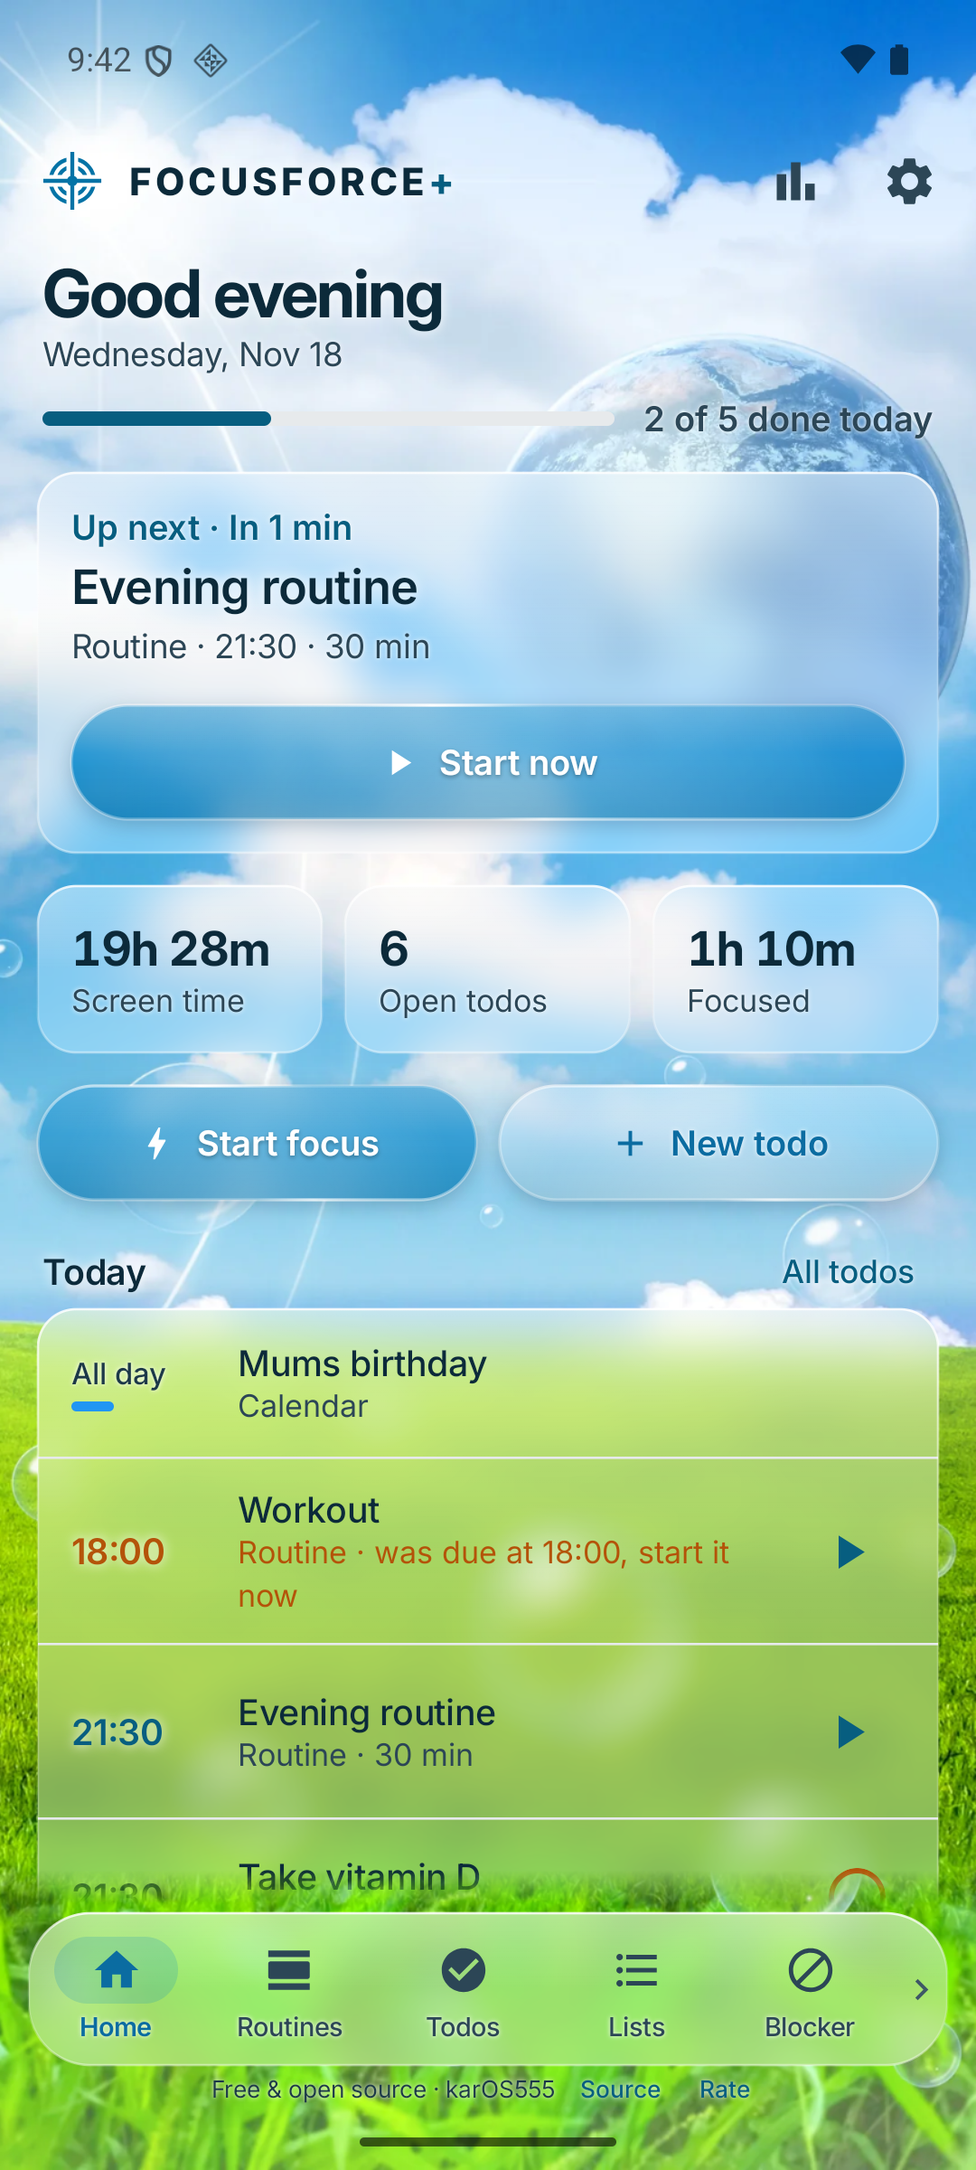
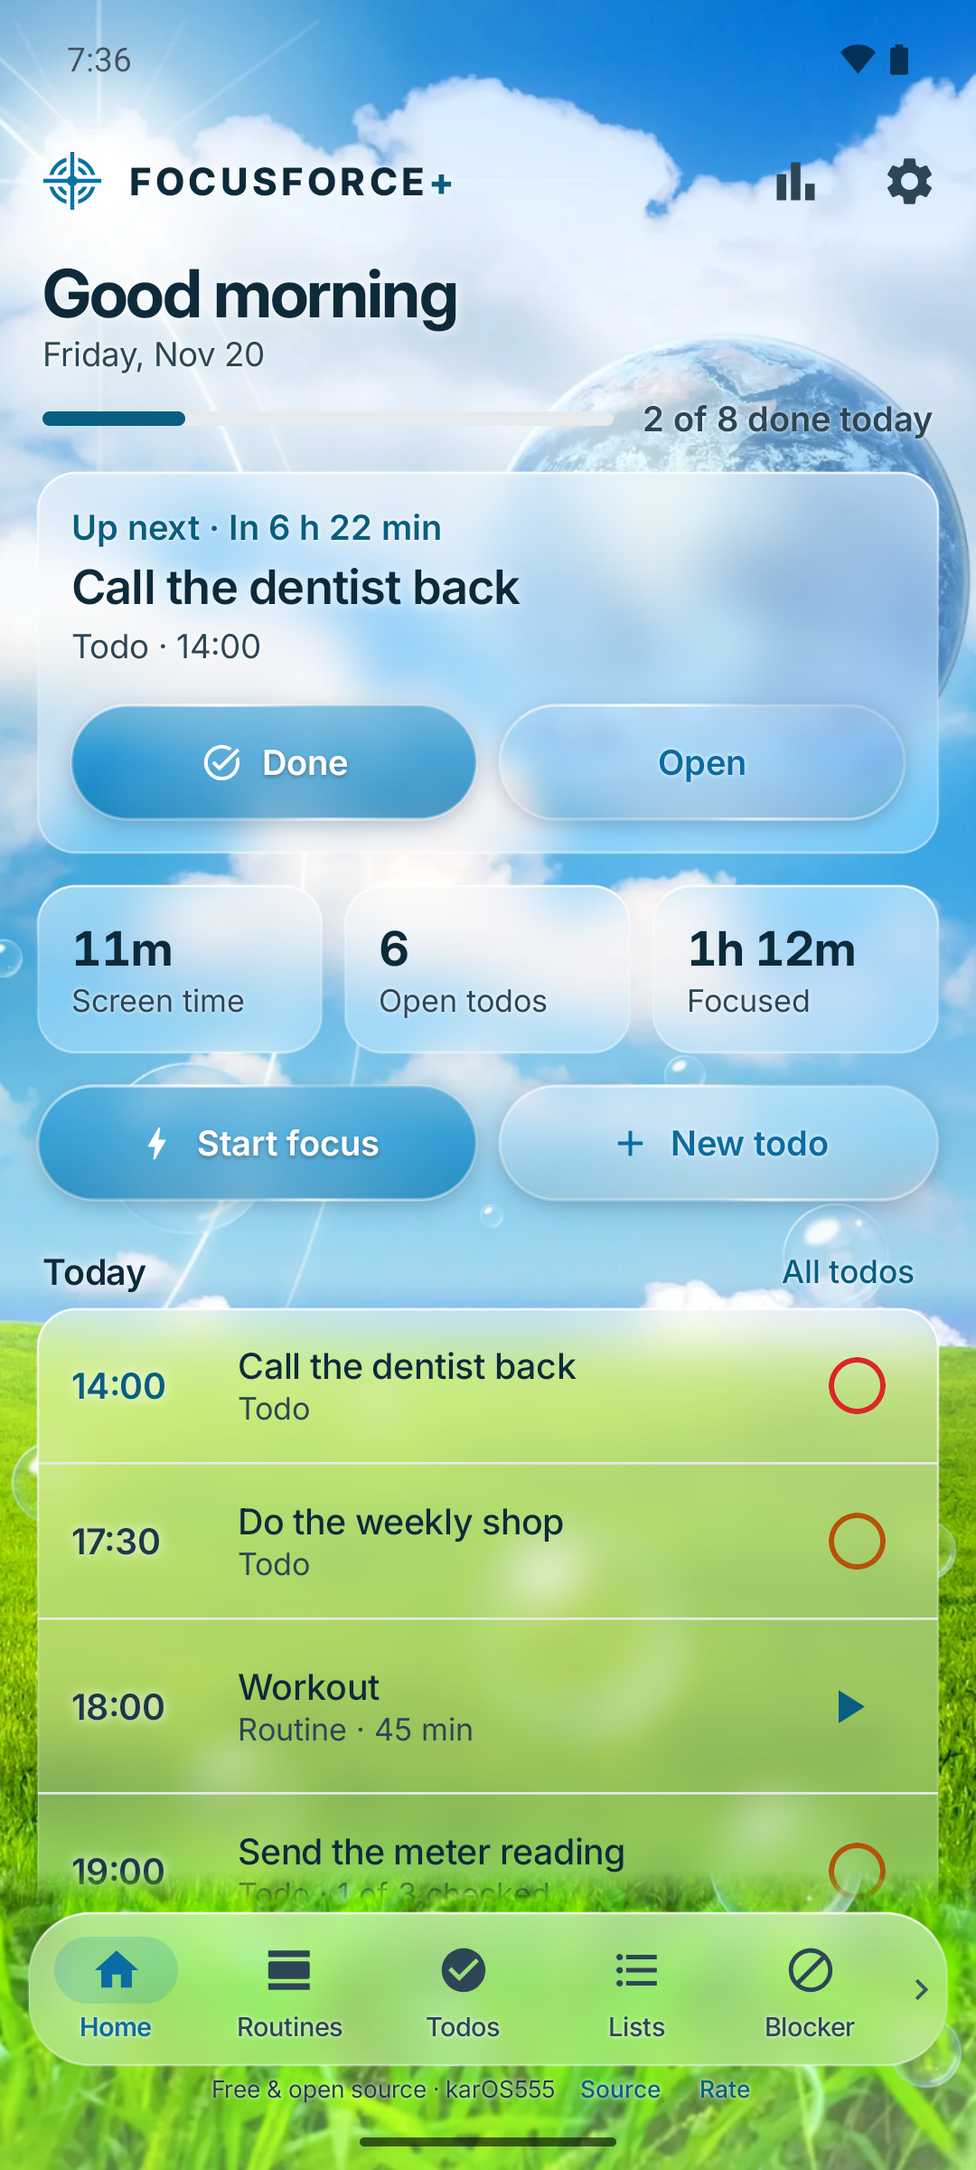
docs(readme): short sentences, the ADHD line up front, a picture for every part
The README said the right things in long paragraphs that nobody reads. It
now opens with what the app is ("The all-in-one app for ADHD brains" and
four lines under "In short"), puts how it holds you to your plan above the
feature list, and uses lists and small tables instead of blocks of text.

Ten new pictures in the store design show what had none: the sum before a
snooze, an app blocked during focus, invincible mode, the speed bump
settings, Tamper Protection, a routine's alarm, the view for the shop, a
checklist, statistics and widgets. They live in docs/readme/shots, so the
store listing keeps its nine.

The Aero screenshot is retaken: its screen time read 19 hours, because the
test device had been on for days.

diff --git a/README.md b/README.md
@@ -9,7 +9,9 @@
 
 # FocusForce+
 
-### Routines, todos, lists, an app blocker, focus and sleep mode in one Android app, with reminders you can't just swipe away.
+### The all-in-one app for ADHD brains
+
+Routines, todos, lists, an app blocker, focus and sleep mode in one Android app.<br/>With reminders you can't just swipe away.
 
 <br/>
 
@@ -40,39 +42,138 @@
 > [!NOTE]
 > FocusForce+ is in public beta. If something breaks or feels wrong on your phone, please [open an issue](../../issues).
 
+<h2 id="in-short"><sub><img src="docs/readme/icons/lightbulb.svg" height="24" width="24" alt=""></sub> In short</h2>
+
+- **One app instead of six.** Routines, todos, lists, blocker, focus and sleep work together. A routine can block your apps. A todo can carry your shopping list.
+- **It holds you to your plan.** Reminders come back. Snoozing, skipping and quitting early take a small task first, like solving a sum.
+- **It stays on your phone.** No account, no cloud, no ads. The app has no internet permission.
+- **Free and open source.** Built by one person who uses it every day.
+
 <h2 id="why-i-built-it"><sub><img src="docs/readme/icons/user-round.svg" height="24" width="24" alt=""></sub> Why I built it</h2>
 
-**I built FocusForce+ for myself.** Every routine app, todo app and blocker I tried stopped working for me the moment motivation dipped, because everything in them could be swiped away, snoozed forever or switched off in two taps. So I wrote the app I needed: reminders that come back, routines that start with a real alarm, blocks that hold, and a little friction in front of every way out. I use it every day.
+**I built FocusForce+ for myself.** Every routine app, todo app and blocker I tried stopped working the moment my motivation dipped. I could swipe everything away, snooze forever, or switch it off in two taps.
 
-It is made for brains that need more structure than most apps assume: ADHD, habits that run away with you, or too many hours lost to the phone. If yours works anything like mine, it might fit you too.
+So I wrote the app I needed. I use it every day.
 
-<h2 id="what-it-does"><sub><img src="docs/readme/icons/smartphone.svg" height="24" width="24" alt=""></sub> What it does</h2>
+It is made for brains that need more structure than most apps assume: ADHD, habits that run away with you, or too many hours lost to the phone. If yours works like mine, it might fit you too.
 
-### Your day, in one place
+<h2 id="how-it-holds-you-to-it"><sub><img src="docs/readme/icons/lock-keyhole.svg" height="24" width="24" alt=""></sub> How it holds you to it</h2>
 
-**Home** answers "what now?": how much of today is done, what is up next with a Start or Done button right there, and then routines, todos and calendar events in one list by time. **Todos** get pushier with their priority. Low is one notification, medium comes up on screen and comes back a couple of times, high rings and rings again. Ticking one off takes a confirmation and a swipe along a path. Todos without a date come back at set times each day.
+Most apps let you swipe, snooze or switch off. FocusForce+ puts a small hurdle in front of every way out.
+
+<p align="center">
+<a href="docs/readme/shots/sum.png"><img src="docs/readme/shots/sum.png" width="30%" alt="A ringing routine alarm asks for a sum before it can be snoozed"></a>
+&nbsp;
+<a href="docs/readme/shots/blocked.png"><img src="docs/readme/shots/blocked.png" width="30%" alt="YouTube is blocked because a focus session is running"></a>
+&nbsp;
+<a href="docs/readme/shots/invincible.png"><img src="docs/readme/shots/invincible.png" width="30%" alt="A focus session in invincible mode that runs to the end"></a>
+</p>
+
+| | What it does |
+|---|---|
+| **Speed bumps** | Before you snooze, skip, quit early or pause a block, the app can ask again, make you wait, or give you a small task: hold a button, drag a slider, trace a path or solve a sum. |
+| **Blocking that follows your day** | Start a routine or a focus session and your apps close with it. Sleep time and calendar events do the same. |
+| **Invincible mode** | Lock one routine, one focus session or one block. It then runs to the end. The rest of your phone stays free. |
+| **Reminders that come back** | Swipe an important todo away and it returns. A high-priority todo rings again every few minutes. |
+| **Tamper Protection** | Switch it on, and you can only loosen your locks in a short daily window. You pick the time. |
+
+<p align="center">
+<a href="fastlane/metadata/android/en-US/images/phoneScreenshots/2.png"><img src="fastlane/metadata/android/en-US/images/phoneScreenshots/2.png" width="30%" alt="A high-priority todo alarm that is only done after a swipe along a path"></a>
+&nbsp;
+<a href="docs/readme/shots/speedbumps.png"><img src="docs/readme/shots/speedbumps.png" width="30%" alt="The speed bump settings, with a mix for each action"></a>
+&nbsp;
+<a href="docs/readme/shots/tamper.png"><img src="docs/readme/shots/tamper.png" width="30%" alt="Tamper Protection switched on, with its daily window"></a>
+</p>
+
+**You decide how strict it is.** Every speed bump can be changed, for each action and even for a single todo or routine. One switch turns them all off.
+
+> [!TIP]
+> **Friction, not a trap.** A speed bump takes a minute at most. No alarm rings forever. You can always uninstall the app in Android's settings. The point is to stop the reflex, not to lock you out of your phone.
+
+<h2 id="what-is-inside"><sub><img src="docs/readme/icons/smartphone.svg" height="24" width="24" alt=""></sub> What is inside</h2>
+
+<h3 id="home-and-todos"><sub><img src="docs/readme/icons/house.svg" height="20" width="20" alt=""></sub> Home and todos</h3>
+
+**Home** answers one question: what now?
+
+- How much of today is done, and what is up next, with **Start** or **Done** right there.
+- Routines, todos and calendar events in **one list**, sorted by time.
+
+**Todos** get louder with their priority.
+
+| Priority | What happens |
+|---|---|
+| Low | One quiet notification. |
+| Medium | Comes up on screen and comes back a couple of times. |
+| High | Rings like an alarm, and rings again every few minutes. Ticking it off takes a confirmation and a swipe along a path. |
+
+- **Todos without a date** come back at set times each day, so they don't sink to the bottom of a list.
+- Checklists inside a todo, repeating todos, and a trash for mistakes.
 
 <p align="center">
 <a href="fastlane/metadata/android/en-US/images/phoneScreenshots/1.png"><img src="fastlane/metadata/android/en-US/images/phoneScreenshots/1.png" width="30%" alt="Home with today's progress, what is up next, and routines, todos and calendar events in one list"></a>
 &nbsp;
-<a href="fastlane/metadata/android/en-US/images/phoneScreenshots/2.png"><img src="fastlane/metadata/android/en-US/images/phoneScreenshots/2.png" width="30%" alt="A high-priority todo alarm with the path slider"></a>
-&nbsp;
 <a href="fastlane/metadata/android/en-US/images/phoneScreenshots/3.png"><img src="fastlane/metadata/android/en-US/images/phoneScreenshots/3.png" width="30%" alt="The todo list grouped by today, later and no date"></a>
 </p>
 
-### Routines and lists
+<h3 id="routines"><sub><img src="docs/readme/icons/alarm-clock.svg" height="20" width="20" alt=""></sub> Routines</h3>
 
-**Routines** start with a real alarm and give every step its own timer. Run over and the timer keeps counting and reminds you. Each routine has its own number of snoozes, its own heads-up before the start, and can block apps and switch on Do Not Disturb while it runs. **Lists** come in two kinds. A shopping list takes several things at once ("milk, 2 bread, flour 500 g"), sorts them by aisle on its own, keeps what you bought before one tap away, and turns into a big tick-off view in the shop that keeps the screen on. A checklist is for the same things every time, like packing: ticked items stay, and it starts over for the next trip. A todo can carry a list, and so can a routine step, like a packing list for "Pack the bag".
+A routine is a list of steps. Each step has its own timer.
+
+- **Starts with a real alarm,** full screen, like an alarm clock.
+- **One step at a time.** Run over, and the timer keeps counting and reminds you.
+- **Snoozing costs a sum.** You set how many snoozes each routine gets.
+- Can **block apps** and switch on **Do Not Disturb** while it runs.
+- A step can carry a list, like a packing list for "Pack the bag".
+- Duplicate a routine, or copy steps from another one.
 
 <p align="center">
-<a href="fastlane/metadata/android/en-US/images/phoneScreenshots/4.png"><img src="fastlane/metadata/android/en-US/images/phoneScreenshots/4.png" width="30%" alt="A routine step counting down"></a>
+<a href="docs/readme/shots/routine-alarm.png"><img src="docs/readme/shots/routine-alarm.png" width="30%" alt="A routine's alarm with Start, Snooze and Move"></a>
 &nbsp;
-<a href="fastlane/metadata/android/en-US/images/phoneScreenshots/8.png"><img src="fastlane/metadata/android/en-US/images/phoneScreenshots/8.png" width="30%" alt="A shopping list sorted by aisle, with amounts, things to buy again and its reminder"></a>
+<a href="fastlane/metadata/android/en-US/images/phoneScreenshots/4.png"><img src="fastlane/metadata/android/en-US/images/phoneScreenshots/4.png" width="30%" alt="A routine step counting down"></a>
 </p>
 
-### Blocking, focus and sleep
+<h3 id="lists"><sub><img src="docs/readme/icons/list-checks.svg" height="20" width="20" alt=""></sub> Lists</h3>
 
-**The blocker** closes apps always, after a daily limit, on a schedule, or while a routine, a focus session or a calendar event is on. Several apps can share one limit, and you can keep Instagram and YouTube but skip Reels and Shorts. **Focus** silences the phone and blocks apps for a set time; ending early asks first and then makes you wait. **Sleep** reminds you to wind down, keeps the night quiet, closes apps until morning, and can start a routine at bedtime and at wake-up.
+Two kinds, because shopping and packing work differently.
+
+**Shopping list**
+
+- Type several things at once: `milk, 2 bread, flour 500 g`.
+- **Sorts itself by aisle.** It knows common groceries in English and German.
+- **Buy again:** what you bought before is one tap away.
+- **A view for the shop:** only what is left, in big rows, with the screen kept on.
+
+**Checklist**
+
+- For the same things every time, like packing or leaving the house.
+- Ticked items stay, and the top shows how far you are.
+- **Start over** resets it for the next trip.
+
+Both can remind you with a todo, be shared as text, and undo what you removed.
+
+<p align="center">
+<a href="fastlane/metadata/android/en-US/images/phoneScreenshots/8.png"><img src="fastlane/metadata/android/en-US/images/phoneScreenshots/8.png" width="30%" alt="A shopping list sorted by aisle, with amounts, things to buy again and its reminder"></a>
+&nbsp;
+<a href="docs/readme/shots/shopping.png"><img src="docs/readme/shots/shopping.png" width="30%" alt="The view for the shop: what is left, aisle by aisle, in big rows"></a>
+&nbsp;
+<a href="docs/readme/shots/checklist.png"><img src="docs/readme/shots/checklist.png" width="30%" alt="A packing checklist with its progress and Start over"></a>
+</p>
+
+<h3 id="blocker-focus-and-sleep"><sub><img src="docs/readme/icons/ban.svg" height="20" width="20" alt=""></sub> Blocker, focus and sleep</h3>
+
+**The blocker** closes the apps you pick:
+
+- **always**, after a **daily limit**, or on a **schedule**, overnight too
+- while a **routine**, a **focus session** or a **calendar event** is on
+- with **one shared limit** for several apps, like 60 minutes for all social media
+- or only **Reels and Shorts**, while the rest of Instagram and YouTube keeps working
+
+Need an app anyway? "5 more minutes" is there a couple of times a day, after a short wait.
+
+**Focus** silences the phone and blocks apps for a set time. Ending early asks first, then makes you wait.
+
+**Sleep** reminds you to wind down, keeps the night quiet and closes apps until morning. It can start a routine at bedtime and at wake-up.
 
 <p align="center">
 <a href="fastlane/metadata/android/en-US/images/phoneScreenshots/5.png"><img src="fastlane/metadata/android/en-US/images/phoneScreenshots/5.png" width="30%" alt="The blocker with blocks and the Reels and Shorts switches"></a>
@@ -82,46 +183,50 @@ It is made for brains that need more structure than most apps assume: ADHD, habi
 <a href="fastlane/metadata/android/en-US/images/phoneScreenshots/7.png"><img src="fastlane/metadata/android/en-US/images/phoneScreenshots/7.png" width="30%" alt="Sleep mode with bedtime, wake-up and linked routines"></a>
 </p>
 
-### Make it yours
+<h3 id="statistics-widgets-and-themes"><sub><img src="docs/readme/icons/chart-column.svg" height="20" width="20" alt=""></sub> Statistics, widgets and themes</h3>
 
-- Six themes or your own colours, saved under a name. **Aero** is a real Frutiger Aero style: glass cards and liquid glass buttons over a summer sky, a green meadow and soap bubbles.
-- Choose which modules sit in the bottom bar, in which order, or switch a module off.
-- Widgets for today, quick focus and a list to tick off.
-- Your calendar on Home, todos with a date in it, and blocking during events.
-- Two-way sync with OpenTasks or Tasks.org, and with DAVx5 from there to Nextcloud or any CalDAV server.
-- Share text from any app to make a todo or list items; `focusforceplus://` links start things from Tasker, shortcuts or NFC tags (off until you switch them on).
-- A backup into a folder every night, a file by hand, and an import you can undo.
+- **Statistics** compare your last seven days with the seven before: focus time, routines, todos and screen time, with streaks.
+- **Widgets** put today, quick focus and a list on your home screen.
+- **Themes:** six ready-made ones, two of them light, or your own colours. **Aero** is a real Frutiger Aero style: glass cards and liquid glass buttons over a summer sky, a green meadow and soap bubbles.
 
 <p align="center">
-<a href="fastlane/metadata/android/en-US/images/phoneScreenshots/9.png"><img src="fastlane/metadata/android/en-US/images/phoneScreenshots/9.png" width="30%" alt="Home in a light custom theme with glass cards"></a>
+<a href="docs/readme/shots/stats.png"><img src="docs/readme/shots/stats.png" width="30%" alt="Statistics for the last seven days with streaks and a chart of focus time"></a>
+&nbsp;
+<a href="docs/readme/shots/widgets.png"><img src="docs/readme/shots/widgets.png" width="30%" alt="The Today and Quick focus widgets on a home screen"></a>
+&nbsp;
+<a href="fastlane/metadata/android/en-US/images/phoneScreenshots/9.png"><img src="fastlane/metadata/android/en-US/images/phoneScreenshots/9.png" width="30%" alt="Home in the Aero theme with glass cards over a sky and a meadow"></a>
 </p>
 
-Everything stays on your phone. There is no account, no cloud, and the app has no internet permission.
+<h3 id="and-more"><sub><img src="docs/readme/icons/plug.svg" height="20" width="20" alt=""></sub> And more</h3>
 
-<h2 id="how-it-holds-you-to-it"><sub><img src="docs/readme/icons/lock-keyhole.svg" height="24" width="24" alt=""></sub> How it holds you to it</h2>
+| | |
+|---|---|
+| **Your own bar** | Choose which modules sit in the bottom bar and in which order, or switch a module off. |
+| **Calendar** | Today's events on Home, todos with a date in a calendar you pick, and blocking during events. |
+| **Tasks apps** | Two-way sync with OpenTasks or Tasks.org. With DAVx5 it reaches Nextcloud and any CalDAV server. |
+| **Sharing** | Share text from any app to make a todo or list items. |
+| **Start links** | `focusforceplus://` links start focus or a routine from Tasker, shortcuts or NFC tags. Off until you switch them on. |
+| **Backups** | Every night into a folder you choose, or one file by hand. An import can be undone. |
 
-**Speed bumps.** Before you tick off a todo, snooze it, push a routine back, stop it or a focus session early, or pause a block, the app can ask again, make you wait, or give you a small task: hold a button, drag a slider or a path with two bends, or solve a sum. You pick the mix for each of these, and a single todo or routine can have its own. One switch turns them all off.
-
-**Invincible mode, one item at a time.** Lock a single routine, focus session or block instead of the whole phone. Until it ends on its own, it can't be cancelled or weakened.
-
-**Friction, not a trap.** The wait in a speed bump is a minute at most, a reminder never rings forever, and you can always uninstall the app from Android settings. The point is to stop the reflex, not to lock you out of your phone.
-
-**Tamper Protection.** If you turn it on, loosening your own lock settings only works in a short daily window you choose.
+Everything stays on your phone. There is no account and no cloud, and the app has no internet permission.
 
 <h2 id="install"><sub><img src="docs/readme/icons/download.svg" height="24" width="24" alt=""></sub> Install</h2>
 
 1. Open [the releases page](https://github.com/karOS555/FocusForcePlus/releases) and download the `.apk` file of the newest release, at the top.
-2. Open it on your phone. The first time, Android asks whether to allow installs from this source. Allow it.
-3. The setup guide walks you through the permissions each part needs and explains what each one is for.
+2. Open the file on your phone. The first time, Android asks whether to allow installs from this source. Allow it.
+3. The setup guide walks you through the permissions and says what each one is for.
 
 FocusForce+ needs Android 8.0 or newer.
 
 > [!IMPORTANT]
-> Blocking needs an accessibility service, daily limits need usage access, and focus needs Do Not Disturb access. You grant these in Android's own settings. The setup guide takes you there and says what each one does and does not do. Calendar and tasks apps are optional and ask only when you switch them on.
+> Blocking needs an accessibility service. Daily limits need usage access. Focus needs Do Not Disturb access. You grant these in Android's own settings, and the setup guide takes you there. Calendar and tasks apps are optional and only ask when you switch them on.
 
-### Updates
+<h3 id="updates">Updates</h3>
 
-The app has no internet access, so it can't check for updates itself. Either open **Settings > About > Check for updates**, which opens the releases page, or let [Obtainium](https://github.com/ImranR98/Obtainium) watch this repository and install new versions for you.
+The app has no internet access, so it can't check for updates itself. There are two ways:
+
+- **By hand:** **Settings > About > Check for updates** opens the releases page.
+- **Automatic:** [Obtainium](https://github.com/ImranR98/Obtainium) watches this repository and installs new versions for you.
 
 <div align="center">
 
@@ -177,7 +282,15 @@ The app has no internet access, so it can't check for updates itself. Either ope
 
 The app collects nothing and sends nothing. There is no analytics, no crash reporting and no ad SDK, and it has no internet permission.
 
-Each permission belongs to one feature. The blocking service only learns which app you opened and reads nothing on the screen. The optional Reels and Shorts service only works inside Instagram and YouTube and only looks for their short-video player. Usage access measures app time for limits and statistics. Do Not Disturb access is for focus, sleep and routines. Calendar and tasks access are optional and only touch the calendar and the list you pick.
+Each permission belongs to one feature:
+
+| Permission | What it is for |
+|---|---|
+| Accessibility, for the blocker | Only learns which app you opened. It reads nothing on the screen. |
+| Accessibility, for Reels and Shorts (optional) | Only works inside Instagram and YouTube, and only looks for their short-video player. |
+| Usage access | Measures app time for limits and statistics. |
+| Do Not Disturb access | For focus, sleep and routines. |
+| Calendar and tasks (optional) | Only the calendar and the list you pick. |
 
 All details are in [PRIVACY.md](PRIVACY.md).
 
@@ -222,7 +335,7 @@ FocusForce+ is a self-help tool for focus and habits. It is not a medical device
 
 <h2 id="if-it-helps-you"><sub><img src="docs/readme/icons/star.svg" height="24" width="24" alt=""></sub> If it helps you</h2>
 
-The app never phones home, so I can't tell whether anyone uses it. If it does something for you, a star on the repository or an [issue](../../issues) is the only way I find out, whether it's a bug, an idea or one line saying it works.
+The app never phones home, so I can't tell whether anyone uses it. If it does something for you, a star on the repository or an [issue](../../issues) is the only way I find out. A bug, an idea, or one line saying it works: all of it helps.
 
 <br/>
 
